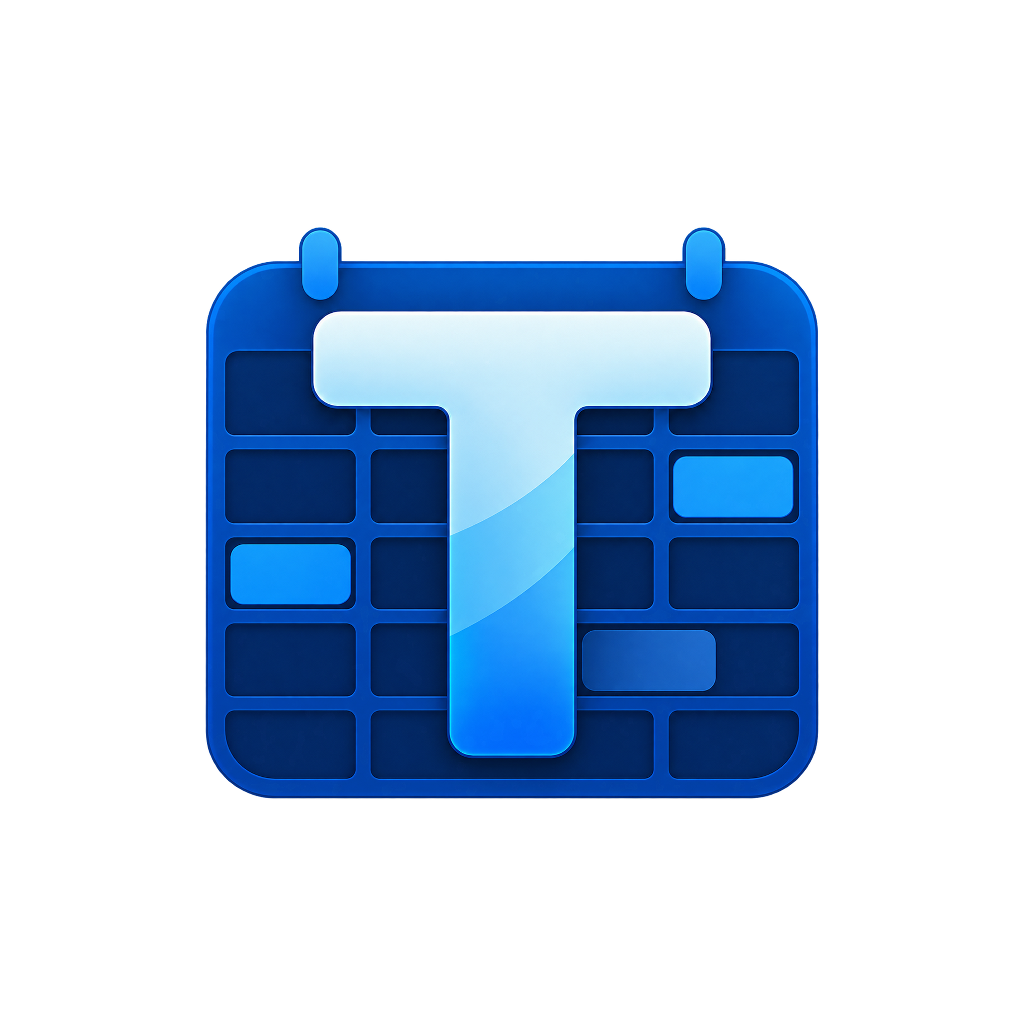
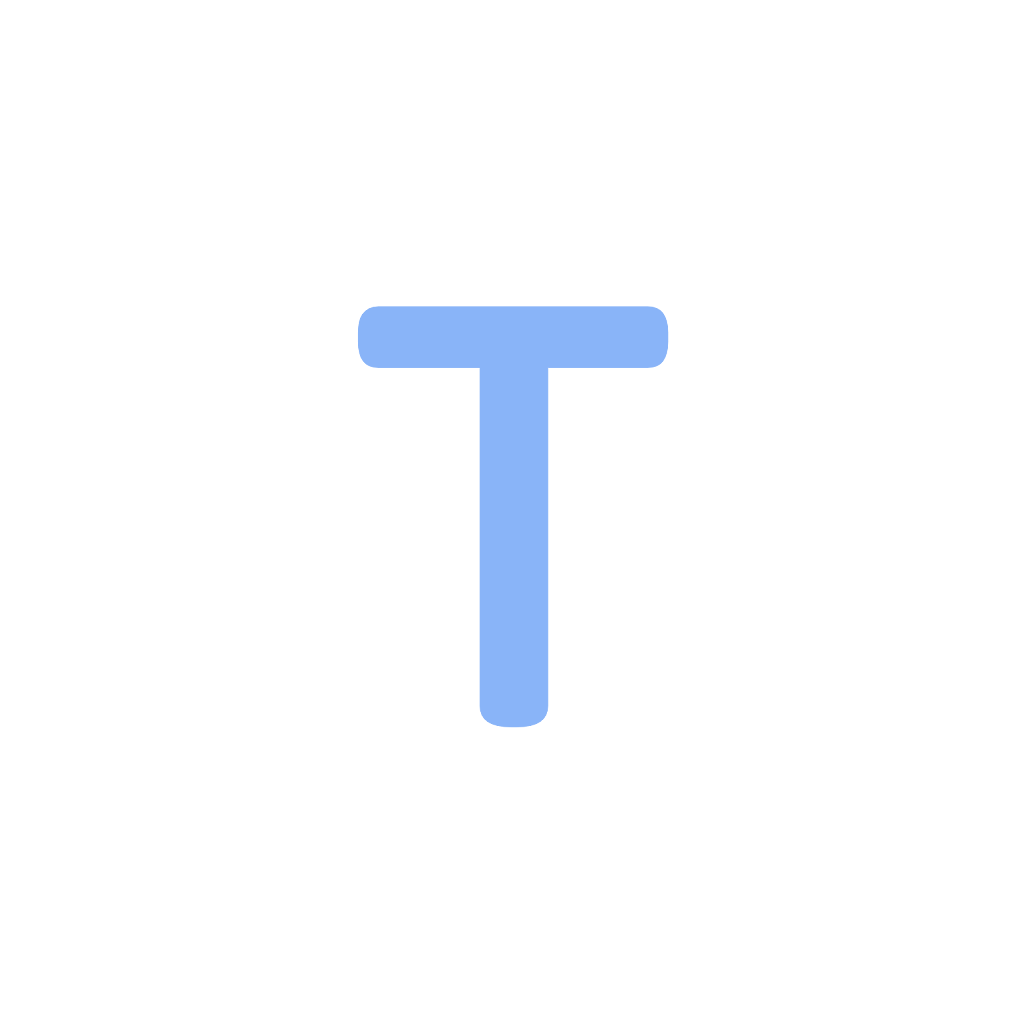
fix: finalize Beta 1 branding

diff --git a/src/theme/tokens.ts b/src/theme/tokens.ts
@@ -12,12 +12,16 @@
  * `theme/classColors`.
  *
  * The accent is the one colour that is not chosen for the chrome at all: it
- * is Temelo's own blue, taken from the frame of the mark in
- * `assets/branding/temelo-logo.png` (#0053C1) and lightened just enough to
- * carry white text at 5.6:1. The dark scheme answers it with the pale blue a
- * dark ground needs, and `accentSubtle` in both schemes is a tint of that
- * same blue rather than a neutral — so a selected day, a primary button and
- * the app icon are recognisably one colour.
+ * is Temelo's own blue, the one the T in `assets/branding/temelo-logo.png`
+ * is drawn in — #89B4F8, hue 217°. The dark scheme sits at that hue and that
+ * lightness, so the app and its icon read as one colour.
+ *
+ * Light cannot simply reuse it: #89B4F8 on white is 2.1:1, which carries no
+ * text and draws no line. So light keeps the hue and darkens it until white
+ * text on it clears 5.6:1. `accentSubtle` in both schemes is a tint of the
+ * same blue rather than a neutral, which is what keeps a selected day, a
+ * primary button and the mark recognisably related rather than merely
+ * adjacent.
  *
  * Nothing in this file affects layout. Every value is a colour, and every
  * dimension the timetable measures itself with lives in
